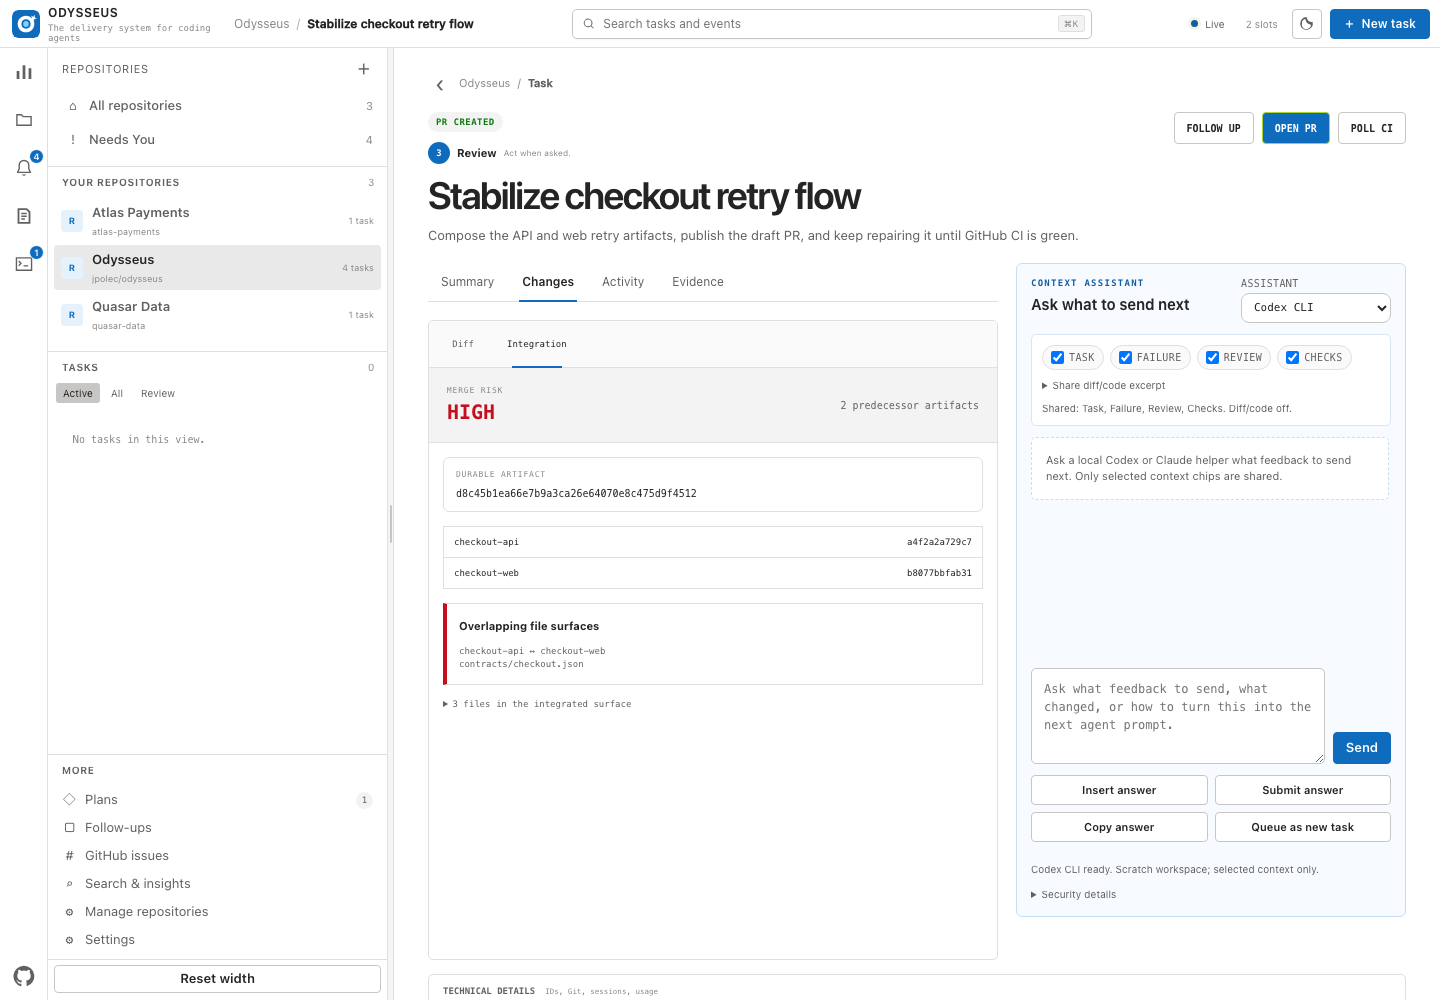
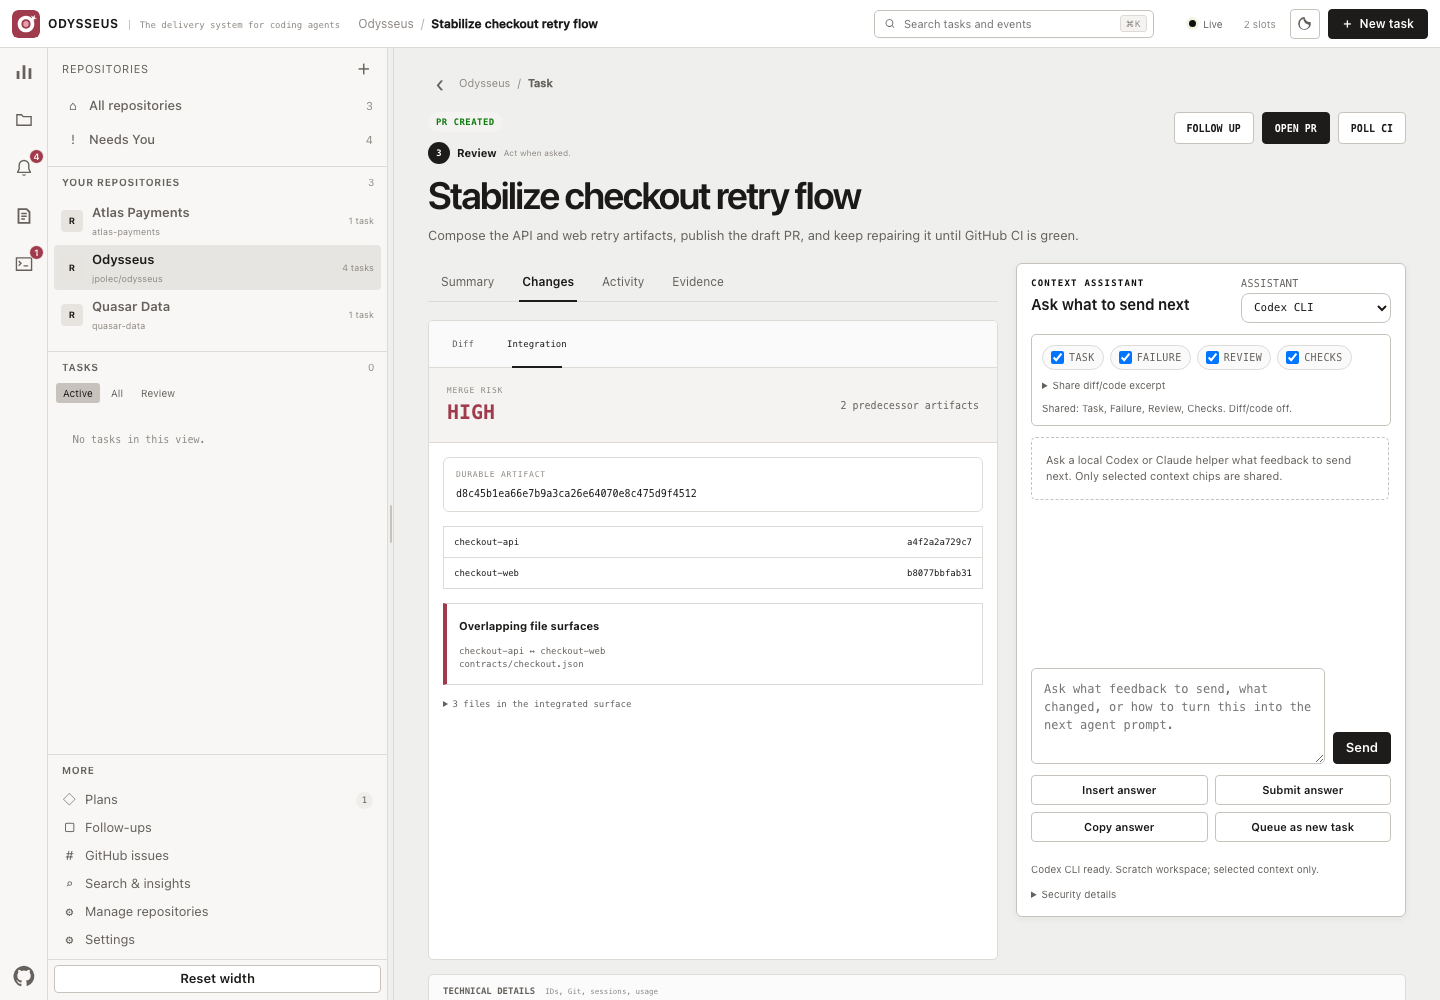
Refine Odysseus neutral visual system

diff --git a/web/styles.css b/web/styles.css
@@ -336,40 +336,41 @@ input:focus, textarea:focus, select:focus { border-color: var(--accent-strong); 
 @media (max-width: 430px) { .session-summary { grid-template-columns: 1fr; }.nav-button::before { display: none; }.nav-button { min-width: 68px; }.metrics { grid-template-columns: 1fr 1fr; }.empty-actions { align-items: stretch; flex-direction: column; width: 100%; } }
 /* 0.4.3 project-first workbench — Fluent density with progressive disclosure. */
 :root {
-  --ink: #242424;
-  --muted: #616161;
-  --faint: #8a8886;
-  --base: #f5f5f5;
+  --ink: #1b1a19;
+  --muted: #65615d;
+  --faint: #8e8984;
+  --base: #efefed;
   --surface: #ffffff;
-  --surface-2: #f3f3f3;
-  --surface-3: #ebebeb;
-  --line: #e1dfdd;
-  --line-bright: #c8c6c4;
-  --accent: #0f6cbd;
-  --accent-strong: #115ea3;
+  --surface-2: #f4f3f1;
+  --surface-3: #e9e7e4;
+  --line: #dedbd7;
+  --line-bright: #c7c2bc;
+  --accent: #1d1c1b;
+  --accent-strong: #0f0f0f;
   --accent-ink: #ffffff;
-  --cyan: #0078d4;
-  --amber: #986f0b;
-  --red: #c50f1f;
-  --blue: #0f6cbd;
-  --shadow: 0 8px 24px rgba(0,0,0,.10), 0 1px 3px rgba(0,0,0,.08);
-  --shadow-soft: 0 2px 8px rgba(0,0,0,.06);
-  --sans: "Segoe UI Variable", "Segoe UI", Inter, ui-sans-serif, -apple-system, BlinkMacSystemFont, sans-serif;
+  --cyan: #393735;
+  --amber: #8a671c;
+  --red: #9f3b4d;
+  --blue: #393735;
+  --brand: #9f3b4d;
+  --shadow: 0 8px 24px rgba(32,28,25,.09), 0 1px 3px rgba(32,28,25,.07);
+  --shadow-soft: 0 2px 8px rgba(32,28,25,.055);
+  --sans: Geist, "SF Pro Text", "Segoe UI Variable Text", Inter, ui-sans-serif, -apple-system, BlinkMacSystemFont, "Segoe UI", sans-serif;
 }
 
 body { height: 100vh; overflow: hidden; background: var(--base); font-size: 13px; }
 .visually-hidden { position: absolute !important; width: 1px !important; height: 1px !important; overflow: hidden !important; clip: rect(0,0,0,0) !important; white-space: nowrap !important; }
-.titlebar { position: relative; z-index: 40; display: grid; grid-template-columns: 222px minmax(180px, .65fr) minmax(280px, 520px) minmax(240px, .65fr); align-items: center; height: 48px; padding: 0 10px 0 12px; border-bottom: 1px solid var(--line); background: rgba(250,250,250,.96); }
+.titlebar { position: relative; z-index: 40; display: grid; grid-template-columns: minmax(320px,auto) minmax(140px,1fr) minmax(220px,300px) auto; align-items: center; gap: 18px; height: 48px; padding: 0 12px; border-bottom: 1px solid var(--line); background: rgba(248,248,246,.96); }
 .titlebar .brand { gap: 8px; }
 .titlebar .brand-mark { width: 26px; height: 26px; border: 0; border-radius: 6px; color: white; background: var(--accent); box-shadow: none; font: 700 14px var(--sans); }
-.brand-copy { display: grid; min-width: 0; }.titlebar .brand strong { font-size: 12px; font-weight: 650; letter-spacing: .04em; }.titlebar .brand-copy small { margin-top: 1px; color: var(--faint); font-size: 9px; font-weight: 400; letter-spacing: 0; }
+.brand-copy { display: flex; min-width: 0; align-items: baseline; gap: 10px; }.titlebar .brand strong { flex: 0 0 auto; font-size: 12px; font-weight: 680; letter-spacing: .04em; }.titlebar .brand-copy small { overflow: hidden; margin: 0; padding-left: 10px; border-left: 1px solid var(--line-bright); color: var(--faint); font-size: 9px; font-weight: 450; letter-spacing: 0; text-overflow: ellipsis; white-space: nowrap; }
 .title-context { display: flex; align-items: center; gap: 7px; min-width: 0; color: var(--faint); font-size: 12px; }
 .title-context span, .title-context strong { overflow: hidden; text-overflow: ellipsis; white-space: nowrap; }
 .title-context i { color: #b3b0ad; font-style: normal; }.title-context strong { color: var(--ink); font-weight: 550; }
-.titlebar .global-search { position: relative; display: flex; align-items: center; width: 100%; height: 30px; margin: 0; border: 1px solid var(--line-bright); border-radius: 5px; background: white; box-shadow: 0 1px 2px rgba(0,0,0,.03); }
+.titlebar .global-search { position: relative; display: flex; align-items: center; justify-self: center; width: min(100%,280px); height: 28px; margin: 0; border: 1px solid var(--line-bright); border-radius: 5px; background: white; box-shadow: 0 1px 2px rgba(0,0,0,.025); }
 .titlebar .global-search:focus-within { border-color: var(--accent); box-shadow: 0 0 0 1px var(--accent); }
 .titlebar .global-search svg { width: 15px; height: 15px; margin-left: 9px; fill: var(--muted); }
-.titlebar .global-search input { height: 28px; margin: 0; padding: 4px 8px; border: 0; border-radius: 0; background: transparent; box-shadow: none; font: 12px var(--sans); }
+.titlebar .global-search input { height: 26px; margin: 0; padding: 4px 8px; border: 0; border-radius: 0; background: transparent; box-shadow: none; font: 11px var(--sans); }
 .titlebar .global-search kbd { margin-right: 6px; padding: 2px 5px; border: 1px solid var(--line); border-radius: 3px; color: var(--faint); background: var(--surface-2); font: 9px var(--sans); }
 .titlebar .topbar-status { justify-self: end; gap: 8px; font-family: var(--sans); }
 .titlebar .connection { padding: 5px 7px; border-radius: 4px; background: transparent; }.titlebar .parallel { padding: 4px 6px; border: 0; border-radius: 4px; color: var(--faint); background: transparent; font: inherit; }.titlebar .parallel:hover { color: var(--ink); background: var(--surface-2); }
@@ -387,7 +388,7 @@ body { height: 100vh; overflow: hidden; background: var(--base); font-size: 13px
 .activity-bar svg { width: 22px; height: 22px; fill: currentColor; }.activity-spacer { flex: 1; }
 .activity-bar .github-button { margin: 0; }.activity-badge { position: absolute; top: 5px; right: 4px; min-width: 15px; height: 15px; padding: 0 3px; border: 1px solid #181818; border-radius: 8px; color: white; background: var(--accent); font: 600 9px var(--sans); }
 
-.project-explorer { display: flex; min-width: 0; min-height: 0; flex-direction: column; border-right: 1px solid var(--line); background: #f3f3f3; }
+.project-explorer { display: flex; min-width: 0; min-height: 0; flex-direction: column; border-right: 1px solid var(--line); background: #f4f3f1; }
 .sidebar-resizer { position: relative; width: 6px; min-width: 6px; padding: 0; border: 0; border-right: 1px solid var(--line); border-radius: 0; background: transparent; cursor: col-resize; }
 .sidebar-resizer::after { position: absolute; top: 50%; left: 2px; width: 2px; height: 38px; border-radius: 2px; background: var(--line-bright); content: ""; transform: translateY(-50%); }
 .sidebar-resizer:hover, .sidebar-resizer:focus-visible { background: var(--surface-2); outline: none; }
@@ -406,7 +407,7 @@ body { height: 100vh; overflow: hidden; background: var(--base); font-size: 13px
 .task-section .task-list { min-height: 0; max-height: none; flex: 1; overflow: auto; padding: 0 5px 8px; }.task-section .task-card { display: grid; grid-template-columns: minmax(0,1fr) auto; align-items: center; gap: 8px; width: 100%; min-height: 34px; margin: 0 0 2px; padding: 6px 8px; border-radius: 4px; }.task-section .task-card:hover { background: #e9e9e9; }.task-section .task-card.selected { border-color: transparent; background: #dceafa; box-shadow: inset 2px 0 var(--accent); }.task-section .task-card-top { display: contents; }.task-section .task-card h3 { overflow: hidden; margin: 0; font-size: 12px; font-weight: 550; text-overflow: ellipsis; white-space: nowrap; }.task-section .task-signals, .task-section .task-card-meta { display: none; }.task-section .mini-status { max-width: 118px; overflow: hidden; text-overflow: ellipsis; white-space: nowrap; }
 .explorer-tools { margin-top: auto; padding-bottom: 5px; }.explorer-tools > button { display: flex; align-items: center; gap: 8px; width: calc(100% - 12px); min-height: 28px; margin: 0 6px; padding: 0 8px; border: 0; border-radius: 4px; color: var(--muted); background: transparent; text-align: left; }.explorer-tools > button:hover { color: var(--ink); background: #e7e7e7; }.explorer-tools > button span { width: 15px; text-align: center; }.explorer-tools > button small { margin-left: auto; }
 
-.workspace { min-width: 0; min-height: 0; overflow: auto; background: white; }.view-panel { min-height: 100%; }.collection-view { max-width: 1180px; padding: 38px 42px 64px; }.page-head h1 { font-size: 36px; font-weight: 620; letter-spacing: -.035em; }
+.workspace { min-width: 0; min-height: 0; overflow: auto; background: var(--base); }.view-panel { min-height: 100%; }.collection-view { max-width: 1180px; padding: 38px 42px 64px; }.page-head h1 { font-size: 36px; font-weight: 620; letter-spacing: -.035em; }
 .work-view { max-width: 1180px; margin: 0 auto; padding: 48px 48px 70px; }.work-header { display: flex; align-items: flex-end; justify-content: space-between; gap: 30px; }.work-header h1 { margin: 3px 0 8px; font-size: clamp(34px, 4vw, 48px); font-weight: 620; letter-spacing: -.045em; }.work-header > div > p:last-child { max-width: 680px; margin: 0; color: var(--muted); font-size: 14px; line-height: 1.55; }.breadcrumb { margin: 0; color: var(--accent); font-size: 10px; font-weight: 650; letter-spacing: .1em; }.work-actions { display: flex; gap: 8px; }.work-meta { display: flex; flex-wrap: wrap; gap: 8px 18px; min-height: 20px; margin-top: 14px; color: var(--faint); font: 11px var(--mono); }.work-meta span { overflow: hidden; max-width: 560px; text-overflow: ellipsis; white-space: nowrap; }
 .work-summary { display: grid; grid-template-columns: repeat(4, minmax(0,1fr)); gap: 1px; margin: 34px 0 42px; overflow: hidden; border: 1px solid var(--line); border-radius: 6px; background: var(--line); }.work-stat { min-height: 92px; padding: 17px 18px; background: white; }.work-stat small { display: block; margin-bottom: 10px; color: var(--faint); font-size: 11px; }.work-stat strong { display: block; font-size: 26px; font-weight: 600; }.work-stat span { display: block; margin-top: 4px; color: var(--muted); font-size: 11px; }
 .work-section { border-top: 1px solid var(--line); padding-top: 24px; }.section-heading { display: flex; align-items: flex-end; justify-content: space-between; gap: 20px; margin-bottom: 15px; }.section-heading h2 { margin: 0; font-size: 20px; font-weight: 600; }.section-heading .eyebrow { color: var(--faint); }.work-list { display: grid; gap: 6px; }
@@ -501,7 +502,7 @@ body { height: 100vh; overflow: hidden; background: var(--base); font-size: 13px
 dialog { border-radius: 8px; box-shadow: 0 16px 48px rgba(0,0,0,.24); }dialog form { padding: 24px; }.dialog-head h2 { font-size: 26px; font-weight: 620; }.dialog-intro { border-left-color: var(--accent); border-radius: 5px; background: #f6f9fc; }.advanced { border-radius: 5px; }.advanced[open] { padding-bottom: 2px; }
 
 @media (max-width: 1120px) {
-  .titlebar { grid-template-columns: 205px 1fr minmax(240px,420px) auto; }.title-context { display: none; }.workbench { grid-template-columns: 44px minmax(280px,var(--sidebar-width)) 6px minmax(0,1fr); }.activity-bar .nav-button, .activity-bar .github-button { width: 44px; min-width: 44px; }.work-view { padding: 40px 32px 60px; }.collection-view { padding: 34px 30px 60px; }.detail-body { grid-template-columns: 1fr; }.assistant-panel { position: static; max-height: none; overflow: visible; }.assistant-messages { max-height: 380px; }.metrics { grid-template-columns: repeat(3,1fr); }.project-home-grid { grid-template-columns: 1fr; }.decision-summary { grid-template-columns: repeat(2,1fr); }
+  .titlebar { grid-template-columns: 220px minmax(200px,280px) auto; }.title-context { display: none; }.titlebar .global-search { grid-column: 2; }.workbench { grid-template-columns: 44px minmax(280px,var(--sidebar-width)) 6px minmax(0,1fr); }.activity-bar .nav-button, .activity-bar .github-button { width: 44px; min-width: 44px; }.work-view { padding: 40px 32px 60px; }.collection-view { padding: 34px 30px 60px; }.detail-body { grid-template-columns: 1fr; }.assistant-panel { position: static; max-height: none; overflow: visible; }.assistant-messages { max-height: 380px; }.metrics { grid-template-columns: repeat(3,1fr); }.project-home-grid { grid-template-columns: 1fr; }.decision-summary { grid-template-columns: repeat(2,1fr); }
 }
 @media (max-width: 760px) {
   body { padding: 0; }.titlebar { grid-template-columns: auto minmax(0,1fr) auto; height: 46px; padding: 0 8px; }.titlebar .brand strong, .titlebar .parallel, .titlebar #connectionLabel { display: none; }.titlebar .global-search { grid-column: 2; }.titlebar .topbar-status { grid-column: 3; }.titlebar .connection { padding: 4px; }.titlebar .primary.compact { width: 32px; padding: 0; font-size: 0; }.titlebar .primary.compact span { margin: 0; font-size: 17px; }
@@ -622,16 +623,16 @@ dialog { border-radius: 8px; box-shadow: 0 16px 48px rgba(0,0,0,.24); }dialog fo
 /* 0.6.11 operator theme: light by default, optional dark workspace, white navigation. */
 :root {
   color-scheme: light;
-  --sidebar-surface: #ffffff;
-  --sidebar-ink: #242424;
-  --sidebar-muted: #616161;
-  --sidebar-faint: #8a8886;
-  --sidebar-line: #e1dfdd;
-  --sidebar-line-bright: #c8c6c4;
-  --sidebar-hover: #f3f3f3;
-  --sidebar-selected: #e9e9e9;
-  --sidebar-selected-strong: #dceafa;
-  --repository-icon-surface: #e5f1fb;
+  --sidebar-surface: #f8f7f5;
+  --sidebar-ink: #1b1a19;
+  --sidebar-muted: #65615d;
+  --sidebar-faint: #8e8984;
+  --sidebar-line: #dedbd7;
+  --sidebar-line-bright: #c7c2bc;
+  --sidebar-hover: #efeeeb;
+  --sidebar-selected: #e7e5e1;
+  --sidebar-selected-strong: #dfdcd7;
+  --repository-icon-surface: #e7e4df;
 }
 
 .titlebar { background: color-mix(in srgb, var(--surface) 96%, transparent); }
@@ -664,13 +665,13 @@ dialog { border-radius: 8px; box-shadow: 0 16px 48px rgba(0,0,0,.24); }dialog fo
   --surface-3: #2a313b;
   --line: #303844;
   --line-bright: #46515f;
-  --accent: #4aa7f5;
-  --accent-strong: #7bbefa;
-  --accent-ink: #07111c;
-  --cyan: #55c4d8;
+  --accent: #f1efec;
+  --accent-strong: #ffffff;
+  --accent-ink: #111111;
+  --cyan: #d7d2cd;
   --amber: #e2b451;
-  --red: #ff6b76;
-  --blue: #66b6ff;
+  --red: #df7a8b;
+  --blue: #d7d2cd;
   --shadow: 0 12px 32px rgba(0,0,0,.30), 0 1px 3px rgba(0,0,0,.24);
   --shadow-soft: 0 4px 14px rgba(0,0,0,.20);
   --sidebar-surface: #14181e;
@@ -681,8 +682,8 @@ dialog { border-radius: 8px; box-shadow: 0 16px 48px rgba(0,0,0,.24); }dialog fo
   --sidebar-line-bright: #3a4552;
   --sidebar-hover: #20262e;
   --sidebar-selected: #28313b;
-  --sidebar-selected-strong: #17314a;
-  --repository-icon-surface: #10283d;
+  --sidebar-selected-strong: #34312f;
+  --repository-icon-surface: #302d2b;
 }
 
 :root[data-theme="dark"] body,
@@ -933,4 +934,72 @@ dialog { border-radius: 8px; box-shadow: 0 16px 48px rgba(0,0,0,.24); }dialog fo
   .gantt-row em { text-align: left; }
   .skills-page-list { grid-template-columns: 1fr; }
   .skills-toolbar { align-items: stretch; flex-direction: column; }
+}
+
+/* Coherent visual system: neutral delivery surfaces, black interaction, cherry identity. */
+.primary,
+.action-button.accept { color: #fff; border-color: var(--accent); background: var(--accent); }
+.primary:hover,
+.action-button.accept:hover { color: #fff; border-color: var(--accent-strong); background: var(--accent-strong); }
+.activity-bar .nav-button.active { box-shadow: inset 2px 0 var(--brand); }
+.activity-badge { background: var(--brand); }
+.repository-icon,
+.project-glyph { color: var(--ink); background: var(--repository-icon-surface); }
+.task-section .task-card.selected,
+.project-explorer .task-card.selected { background: var(--sidebar-selected-strong); box-shadow: inset 2px 0 var(--ink); }
+.project-row.selected,
+.workspace-link.selected,
+.project-explorer .workspace-link.selected,
+.project-explorer .project-row.selected,
+.project-explorer .project-children button.selected { background: var(--sidebar-selected); }
+.portfolio-view,
+.work-view,
+.collection-view,
+.run-detail { background: var(--base); }
+.portfolio-kpi.positive strong { color: var(--ink); }
+.dag-graph-node { border-left-color: var(--ink); }
+.repo-status-accepted,
+.repo-status-running { border-color: var(--ink); background: var(--ink); }
+.repository-graph-node.repo-status-accepted,
+.repository-graph-node.repo-status-running { background: #f3f2ef; }
+.project-notes,
+.dialog-intro,
+.task-skill-recommendations,
+.selected-decision-sources,
+.task-submit-status { border-color: var(--ink); background: #f5f4f1; }
+.assistant-panel,
+.summary-assistant,
+.review-decision,
+.current-repository-hint,
+.first-run-card,
+.quick-task-card,
+.observed-session { border-color: var(--line-bright); background: var(--surface); box-shadow: var(--shadow-soft); }
+.review-decision-head { border-bottom-color: var(--line); background: var(--surface-2); }
+.review-decision-head > span,
+.variant-frontier { color: var(--ink); background: var(--surface-3); }
+.assistant-context,
+.assistant-empty,
+.assistant-message.user,
+.project-skill[open],
+.project-decision.selected { border-color: var(--line-bright); background: var(--surface); }
+.assistant-message.user { background: var(--surface-2); }
+.delivery-steps > li > span { color: var(--ink); border-color: var(--line-bright); background: var(--surface-2); }
+.journey-stepper button.current { background: var(--surface-2); box-shadow: inset 0 -2px var(--ink); }
+.quick-task-card textarea { border-color: var(--line-bright); }
+.context-stack span,
+.skill-preview span,
+.epic-source-line > span { color: var(--ink); border-color: var(--line-bright); background: var(--surface-2); }
+body { background-color: var(--base); background-image: none; }
+:root[data-theme="dark"] body { background-image: none; }
+
+@media (max-width: 1280px) {
+  .titlebar .brand-copy small { display: none; }
+  .titlebar { grid-template-columns: 210px minmax(120px,1fr) minmax(210px,280px) auto; }
+}
+@media (max-width: 1120px) {
+  .titlebar { grid-template-columns: 210px minmax(200px,270px) auto; }
+}
+@media (max-width: 760px) {
+  .titlebar { grid-template-columns: auto minmax(0,1fr) auto; gap: 8px; }
+  .titlebar .global-search { width: 100%; }
 }
